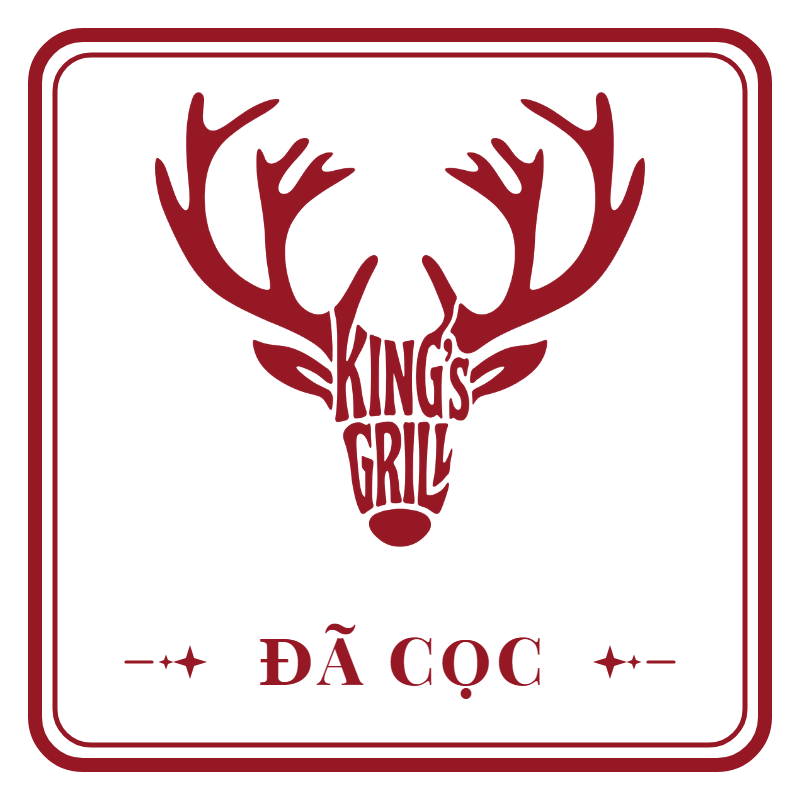
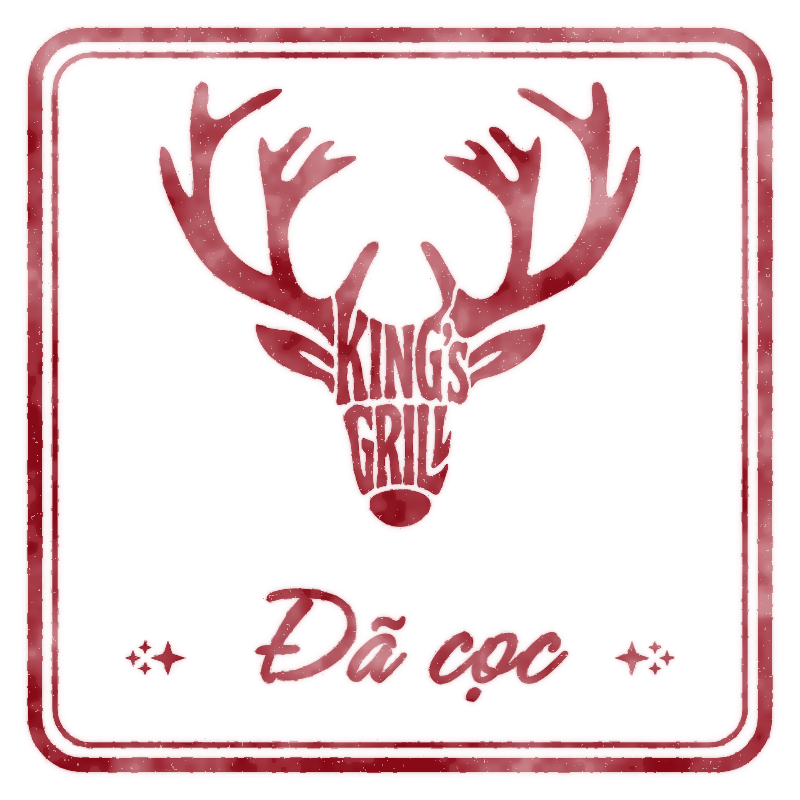
feat(bill-stamps): apply Hurricane calligraphy with ink bleed/fade shader & Google Sans Flex for deposit records

diff --git a/src/components/core/PublicBill.vue b/src/components/core/PublicBill.vue
@@ -426,7 +426,7 @@ onUnmounted(() => { if (timer) clearInterval(timer) })
           <div id="bill-stamp-zone" class="my-4 py-3 border-y border-dashed border-slate-200/80 flex flex-col items-center justify-center pointer-events-none bg-slate-50/40 rounded-2xl">
             <div class="relative w-[170px] sm:w-[200px] flex flex-col items-center justify-center" style="transform: rotate(-3deg); opacity: 0.95;">
               <img id="bill-stamp-img" :src="order.isDeposited ? '/images/stamps/paid.png' : '/images/stamps/pending.png'" class="w-full object-contain filter drop-shadow-sm" style="image-rendering: -webkit-optimize-contrast; image-rendering: crisp-edges;" alt="Stamp" />
-              <div v-if="order.isDeposited" class="mt-2 px-3 py-1 bg-white/95 border border-red-200/90 rounded-full shadow-xs text-center text-[#961825] font-black tracking-widest whitespace-nowrap font-tabular" style="font-family: 'Cal Sans', sans-serif; font-size: 13px;">
+              <div v-if="order.isDeposited" class="mt-2 px-3 py-1 bg-white/95 border border-red-200/90 rounded-full shadow-xs text-center text-[#961825] font-black tracking-widest whitespace-nowrap font-tabular font-deposit-meta" style="font-family: 'Google Sans Flex', 'Be Vietnam Pro', sans-serif; font-size: 13px;">
                 {{ formatDepositTime(order.deposit?.time || order.depositTime) }}
               </div>
             </div>
@@ -503,17 +503,17 @@ onUnmounted(() => { if (timer) clearInterval(timer) })
             </div>
 
             <!-- DEPOSIT INSTALLMENT BREAKDOWN -->
-            <div v-if="order.isDeposited && (order.deposit?.history?.length > 1 || order.depositHistory?.length > 1)" class="bg-emerald-50/70 border border-emerald-200/80 rounded-2xl p-3 space-y-1.5 text-xs text-left shadow-xs mt-2">
+            <div v-if="order.isDeposited && (order.deposit?.history?.length > 1 || order.depositHistory?.length > 1)" class="bg-emerald-50/70 border border-emerald-200/80 rounded-2xl p-3 space-y-1.5 text-xs text-left shadow-xs mt-2 font-deposit-meta" style="font-family: 'Google Sans Flex', 'Be Vietnam Pro', sans-serif;">
               <div class="font-black text-[10px] uppercase tracking-wider text-emerald-800 flex items-center gap-1.5 pb-1 border-b border-emerald-200/60">
                 <i class="fa-solid fa-clock-rotate-left text-[11px] text-emerald-600"></i> Chi tiết các đợt cọc:
               </div>
-              <div v-for="(h, idx) in (order.deposit?.history || order.depositHistory)" :key="idx" class="flex justify-between items-center font-tabular text-[11px]">
+              <div v-for="(h, idx) in (order.deposit?.history || order.depositHistory)" :key="idx" class="flex justify-between items-center font-tabular text-[11px] font-deposit-meta" style="font-family: 'Google Sans Flex', 'Be Vietnam Pro', sans-serif;">
                 <span class="text-slate-600">
                   {{ h.time }} <span class="font-black text-emerald-700">[{{ formatShortVND(h.delta) }}]</span> <span class="font-bold text-slate-400">(Lần {{ idx + 1 }})</span>
                 </span>
                 <span class="font-bold text-slate-700">{{ formatVND(h.amount) }}</span>
               </div>
-              <div class="pt-1.5 border-t border-emerald-200/60 flex justify-between items-center font-black text-[12px] text-emerald-800">
+              <div class="pt-1.5 border-t border-emerald-200/60 flex justify-between items-center font-black text-[12px] text-emerald-800 font-deposit-meta">
                 <span>Tổng cọc: [{{ formatShortVND(order.depositAmount) }}]</span>
                 <span class="font-tabular">{{ formatVND(order.depositAmount) }}</span>
               </div>

diff --git a/src/components/bills/templates/BillTemplateClassic.vue b/src/components/bills/templates/BillTemplateClassic.vue
@@ -93,8 +93,8 @@ const dayOfWeek = computed(() => getDayOfWeek(props.formStore?.customer?.date))
           />
           <div 
             v-if="formStore.deposit.isPaid" 
-            class="mt-2 px-3 py-1 bg-white/95 border border-red-200/90 rounded-full shadow-xs text-center text-[#961825] font-black tracking-widest whitespace-nowrap font-tabular" 
-            style="font-family: 'Cal Sans', sans-serif; font-size: 13px;"
+            class="mt-2 px-3 py-1 bg-white/95 border border-red-200/90 rounded-full shadow-xs text-center text-[#961825] font-black tracking-widest whitespace-nowrap font-tabular font-deposit-meta" 
+            style="font-family: 'Google Sans Flex', 'Be Vietnam Pro', sans-serif; font-size: 13px;"
           >
             {{ formatDepositTime(formStore.deposit.time) }}
           </div>
@@ -200,19 +200,19 @@ const dayOfWeek = computed(() => getDayOfWeek(props.formStore?.customer?.date))
       </div>
 
       <!-- DEPOSIT INSTALLMENT BREAKDOWN -->
-      <div v-if="formStore.deposit.isPaid && formStore.deposit.history && formStore.deposit.history.length > 1" class="bg-emerald-50/70 border border-emerald-200/80 rounded-2xl p-3 space-y-1.5 text-xs text-left shadow-xs">
+      <div v-if="formStore.deposit.isPaid && formStore.deposit.history && formStore.deposit.history.length > 1" class="bg-emerald-50/70 border border-emerald-200/80 rounded-2xl p-3 space-y-1.5 text-xs text-left shadow-xs font-deposit-meta" style="font-family: 'Google Sans Flex', 'Be Vietnam Pro', sans-serif;">
         <div class="font-black text-[10px] uppercase tracking-wider text-emerald-800 flex items-center gap-1.5 pb-1 border-b border-emerald-200/60">
           <i class="fa-solid fa-clock-rotate-left text-[11px] text-emerald-600"></i> Chi tiết các đợt cọc:
         </div>
-        <div v-for="(h, idx) in formStore.deposit.history" :key="idx" class="flex justify-between items-center font-tabular text-[11px]">
+        <div v-for="(h, idx) in formStore.deposit.history" :key="idx" class="flex justify-between items-center font-tabular text-[11px] font-deposit-meta" style="font-family: 'Google Sans Flex', 'Be Vietnam Pro', sans-serif;">
           <span class="text-slate-600">
             {{ h.time }} <span class="font-black text-emerald-700">[{{ formatShortVND(h.delta) }}]</span> <span class="font-bold text-slate-400">(Lần {{ idx + 1 }})</span>
           </span>
-          <span class="font-bold text-slate-700 font-mono">{{ formatVND(h.amount) }}</span>
+          <span class="font-bold text-slate-700 font-deposit-meta">{{ formatVND(h.amount) }}</span>
         </div>
-        <div class="pt-1.5 border-t border-emerald-200/60 flex justify-between items-center font-black text-[12px] text-emerald-800">
+        <div class="pt-1.5 border-t border-emerald-200/60 flex justify-between items-center font-black text-[12px] text-emerald-800 font-deposit-meta">
           <span>Tổng cọc: [{{ formatShortVND(formStore.deposit.amount) }}]</span>
-          <span class="font-tabular font-mono">{{ formatVND(formStore.deposit.amount) }}</span>
+          <span class="font-tabular font-deposit-meta">{{ formatVND(formStore.deposit.amount) }}</span>
         </div>
       </div>
       <div v-if="formStore.calculatedTotals.final - formStore.deposit.amount > 0" class="flex justify-between items-center pt-4 border-t-2 border-slate-200">

diff --git a/src/components/modals/BookingDetailModal.vue b/src/components/modals/BookingDetailModal.vue
@@ -188,12 +188,12 @@ async function handleSyncCalendar() {
             </span>
           </div>
           <!-- Deposit timestamp and installments if any -->
-          <div v-if="ui.selectedBooking.isDeposited && (ui.selectedBooking.deposit?.time || ui.selectedBooking.depositTime)" class="text-[10px] text-emerald-700 dark:text-emerald-300 font-bold flex items-center justify-between pt-1 border-t border-emerald-100 dark:border-emerald-800/40">
+          <div v-if="ui.selectedBooking.isDeposited && (ui.selectedBooking.deposit?.time || ui.selectedBooking.depositTime)" class="text-[10px] text-emerald-700 dark:text-emerald-300 font-bold flex items-center justify-between pt-1 border-t border-emerald-100 dark:border-emerald-800/40 font-deposit-meta" style="font-family: 'Google Sans Flex', 'Be Vietnam Pro', sans-serif;">
             <span class="flex items-center gap-1"><i class="fa-regular fa-clock"></i> Thời gian cọc:</span>
-            <span class="font-mono font-tabular">{{ ui.selectedBooking.deposit?.time || ui.selectedBooking.depositTime }}</span>
+            <span class="font-deposit-meta font-tabular">{{ ui.selectedBooking.deposit?.time || ui.selectedBooking.depositTime }}</span>
           </div>
-          <div v-if="ui.selectedBooking.isDeposited && ((ui.selectedBooking.deposit?.history && ui.selectedBooking.deposit.history.length > 1) || (ui.selectedBooking.depositHistory && ui.selectedBooking.depositHistory.length > 1))" class="pt-1.5 space-y-1">
-            <div v-for="(h, idx) in (ui.selectedBooking.deposit?.history || ui.selectedBooking.depositHistory)" :key="idx" class="flex justify-between items-center text-[10px] font-tabular bg-white/70 dark:bg-slate-900/60 px-2 py-0.5 rounded border border-emerald-100 dark:border-emerald-800/30">
+          <div v-if="ui.selectedBooking.isDeposited && ((ui.selectedBooking.deposit?.history && ui.selectedBooking.deposit.history.length > 1) || (ui.selectedBooking.depositHistory && ui.selectedBooking.depositHistory.length > 1))" class="pt-1.5 space-y-1 font-deposit-meta" style="font-family: 'Google Sans Flex', 'Be Vietnam Pro', sans-serif;">
+            <div v-for="(h, idx) in (ui.selectedBooking.deposit?.history || ui.selectedBooking.depositHistory)" :key="idx" class="flex justify-between items-center text-[10px] font-tabular font-deposit-meta bg-white/70 dark:bg-slate-900/60 px-2 py-0.5 rounded border border-emerald-100 dark:border-emerald-800/30" style="font-family: 'Google Sans Flex', 'Be Vietnam Pro', sans-serif;">
               <span class="text-slate-600 dark:text-slate-300">{{ h.time }} <span class="font-bold text-emerald-600">[{{ formatShortVND(h.delta) }}]</span> (Lần {{ idx + 1 }})</span>
               <span class="font-bold">{{ formatVND(h.amount) }}</span>
             </div>

diff --git a/src/components/forms/DepositManager.vue b/src/components/forms/DepositManager.vue
@@ -275,11 +275,11 @@ function onDrop(e: DragEvent) {
               <div class="text-[10px] text-emerald-700 dark:text-emerald-400 font-medium truncate">{{ formStore.deposit.note || 'Chuyển khoản thành công' }}</div>
             </div>
           </div>
-          <span class="text-[10px] font-mono text-emerald-700 dark:text-emerald-300 font-bold shrink-0 font-tabular bg-emerald-100/70 dark:bg-emerald-900/40 px-2 py-0.5 rounded-md border border-emerald-200/50 dark:border-emerald-800/40">{{ formStore.deposit.time }}</span>
+          <span class="text-[10px] font-deposit-meta text-emerald-700 dark:text-emerald-300 font-bold shrink-0 font-tabular bg-emerald-100/70 dark:bg-emerald-900/40 px-2 py-0.5 rounded-md border border-emerald-200/50 dark:border-emerald-800/40" style="font-family: 'Google Sans Flex', 'Be Vietnam Pro', sans-serif;">{{ formStore.deposit.time }}</span>
         </div>
 
         <!-- Installment History Breakdown (Lần 1, Lần 2, ...) -->
-        <div v-if="formStore.deposit.history && formStore.deposit.history.length > 0" class="pt-2 border-t border-emerald-200/60 dark:border-emerald-800/40 space-y-1.5">
+        <div v-if="formStore.deposit.history && formStore.deposit.history.length > 0" class="pt-2 border-t border-emerald-200/60 dark:border-emerald-800/40 space-y-1.5 font-deposit-meta" style="font-family: 'Google Sans Flex', 'Be Vietnam Pro', sans-serif;">
           <div class="text-[9px] font-black uppercase text-emerald-800 dark:text-emerald-300 flex items-center justify-between">
             <span class="flex items-center gap-1"><i class="fa-solid fa-clock-rotate-left text-[10px]"></i> Lịch sử các đợt cọc:</span>
             <span class="text-[9px] font-bold text-slate-400">({{ formStore.deposit.history.length }} lần)</span>
@@ -288,7 +288,8 @@ function onDrop(e: DragEvent) {
             <div 
               v-for="(h, idx) in formStore.deposit.history" 
               :key="idx" 
-              class="flex items-center justify-between text-[10px] font-tabular bg-white/70 dark:bg-emerald-950/60 px-2.5 py-1 rounded-lg border border-emerald-100 dark:border-emerald-800/40"
+              class="flex items-center justify-between text-[10px] font-tabular font-deposit-meta bg-white/70 dark:bg-emerald-950/60 px-2.5 py-1 rounded-lg border border-emerald-100 dark:border-emerald-800/40"
+              style="font-family: 'Google Sans Flex', 'Be Vietnam Pro', sans-serif;"
             >
               <div class="flex items-center gap-1.5 min-w-0">
                 <span class="text-[9px] font-black bg-emerald-100 dark:bg-emerald-900/60 text-emerald-800 dark:text-emerald-300 px-1 py-0.2 rounded shrink-0">Lần {{ idx + 1 }}</span>

diff --git a/src/components/bills/templates/BillTemplateModern.vue b/src/components/bills/templates/BillTemplateModern.vue
@@ -237,7 +237,7 @@ const verificationQrUrl = useVerificationQr(() => qrLink.value || 'https://kg-bo
             <div class="text-sm font-black mt-0.5" :class="formStore?.deposit?.isPaid ? 'text-emerald-800' : 'text-amber-800'">
               {{ formStore?.deposit?.isPaid ? 'ĐÃ XÁC NHẬN CỌC' : 'YÊU CẦU ĐẶT CỌC' }}
             </div>
-            <div v-if="formStore?.deposit?.isPaid && formStore?.deposit?.time" class="text-[11px] font-bold text-slate-500 font-mono mt-0.5">
+            <div v-if="formStore?.deposit?.isPaid && formStore?.deposit?.time" class="text-[11px] font-bold text-slate-500 font-deposit-meta mt-0.5" style="font-family: 'Google Sans Flex', 'Be Vietnam Pro', sans-serif;">
               Thời gian: {{ formatDepositTime(formStore.deposit.time) }}
             </div>
             <div v-if="!formStore?.deposit?.isPaid" class="text-[11px] font-semibold text-slate-500 mt-0.5">
@@ -249,14 +249,15 @@ const verificationQrUrl = useVerificationQr(() => qrLink.value || 'https://kg-bo
         <!-- Deposit History Breakdown (If multiple installments) -->
         <div 
           v-if="!hidePrice && formStore?.deposit?.isPaid && formStore?.deposit?.history && formStore.deposit.history.length > 1" 
-          class="w-full bg-emerald-50/70 border border-emerald-200/80 rounded-2xl p-3.5 space-y-1.5 text-xs text-left"
+          class="w-full bg-emerald-50/70 border border-emerald-200/80 rounded-2xl p-3.5 space-y-1.5 text-xs text-left font-deposit-meta"
+          style="font-family: 'Google Sans Flex', 'Be Vietnam Pro', sans-serif;"
         >
           <div class="font-black text-[10px] uppercase tracking-wider text-emerald-800 flex items-center gap-1.5 pb-1 border-b border-emerald-200">
             <i class="fa-solid fa-clock-rotate-left text-emerald-600"></i> Lịch sử các đợt cọc:
           </div>
-          <div v-for="(h, idx) in formStore.deposit.history" :key="idx" class="flex justify-between items-center font-mono text-[11px]">
+          <div v-for="(h, idx) in formStore.deposit.history" :key="idx" class="flex justify-between items-center font-deposit-meta text-[11px]" style="font-family: 'Google Sans Flex', 'Be Vietnam Pro', sans-serif;">
             <span class="text-slate-600">
-              {{ h.time }} <span class="font-black text-emerald-700">[{{ formatShortVND(h.delta) }}]</span>
+              {{ h.time }} <span class="font-black text-emerald-700">[{{ formatShortVND(h.delta) }}]</span> <span class="font-bold text-slate-400">(Lần {{ idx + 1 }})</span>
             </span>
             <span class="font-bold text-slate-800">{{ formatVND(h.amount) }}</span>
           </div>

diff --git a/src/components/bills/templates/BillTemplateLuxury.vue b/src/components/bills/templates/BillTemplateLuxury.vue
@@ -216,7 +216,7 @@ const verificationQrUrl = useVerificationQr(() => qrLink.value || 'https://kg-bo
               <div class="text-sm font-black mt-0.5" :class="formStore?.deposit?.isPaid ? 'text-emerald-800' : 'text-amber-800'">
                 {{ formStore?.deposit?.isPaid ? 'ĐÃ ĐẶT CỌC THÀNH CÔNG' : 'CHỜ THANH TOÁN TIỀN CỌC' }}
               </div>
-              <div v-if="formStore?.deposit?.isPaid && formStore?.deposit?.time" class="text-[11px] font-bold text-slate-500 font-mono mt-0.5">
+              <div v-if="formStore?.deposit?.isPaid && formStore?.deposit?.time" class="text-[11px] font-bold text-slate-500 font-deposit-meta mt-0.5" style="font-family: 'Google Sans Flex', 'Be Vietnam Pro', sans-serif;">
                 Ngày nhận: {{ formatDepositTime(formStore.deposit.time) }}
               </div>
             </div>
@@ -225,13 +225,14 @@ const verificationQrUrl = useVerificationQr(() => qrLink.value || 'https://kg-bo
           <!-- Multiple deposit breakdown -->
           <div 
             v-if="!hidePrice && formStore?.deposit?.isPaid && formStore?.deposit?.history && formStore.deposit.history.length > 1" 
-            class="w-full bg-white border border-[#C5A059]/30 rounded-xl p-3 space-y-1 text-xs text-left"
+            class="w-full bg-white border border-[#C5A059]/30 rounded-xl p-3 space-y-1 text-xs text-left font-deposit-meta"
+            style="font-family: 'Google Sans Flex', 'Be Vietnam Pro', sans-serif;"
           >
             <div class="font-black text-[10px] uppercase text-[#9A7B38] pb-1 border-b border-slate-100 flex items-center gap-1.5">
               <i class="fa-solid fa-list-check"></i> Các đợt ghi nhận cọc:
             </div>
-            <div v-for="(h, idx) in formStore.deposit.history" :key="idx" class="flex justify-between items-center font-mono text-[11px]">
-              <span class="text-slate-600">{{ h.time }} <strong class="text-emerald-700">[{{ formatShortVND(h.delta) }}]</strong></span>
+            <div v-for="(h, idx) in formStore.deposit.history" :key="idx" class="flex justify-between items-center font-deposit-meta text-[11px]" style="font-family: 'Google Sans Flex', 'Be Vietnam Pro', sans-serif;">
+              <span class="text-slate-600">{{ h.time }} <strong class="text-emerald-700">[{{ formatShortVND(h.delta) }}]</strong> <span class="font-bold text-slate-400">(Lần {{ idx + 1 }})</span></span>
               <span class="font-bold text-slate-800">{{ formatVND(h.amount) }}</span>
             </div>
           </div>

diff --git a/src/components/bills/templates/BillTemplateTicket.vue b/src/components/bills/templates/BillTemplateTicket.vue
@@ -205,6 +205,16 @@ const verificationQrUrl = useVerificationQr(() => qrLink.value || 'https://kg-bo
               <span class="font-bold text-[10px] uppercase">TIỀN CỌC:</span>
               <span class="font-mono font-black text-sm">{{ formatVND(formStore?.deposit?.amount || 0) }} ({{ formStore?.deposit?.isPaid ? 'ĐÃ CỌC' : 'CHỜ CỌC' }})</span>
             </div>
+            <div v-if="formStore?.deposit?.isPaid && formStore?.deposit?.time" class="flex justify-between items-center text-[10px] text-slate-600 font-deposit-meta" style="font-family: 'Google Sans Flex', 'Be Vietnam Pro', sans-serif;">
+              <span class="font-semibold">Thời gian nhận cọc:</span>
+              <span class="font-bold tabular-nums">{{ formatDepositTime(formStore.deposit.time) }}</span>
+            </div>
+            <div v-if="formStore?.deposit?.history?.length > 1" class="pt-1 border-t border-blue-200/70 space-y-0.5 text-[10px] text-slate-700 font-deposit-meta" style="font-family: 'Google Sans Flex', 'Be Vietnam Pro', sans-serif;">
+              <div v-for="(h, idx) in formStore.deposit.history" :key="idx" class="flex justify-between items-center">
+                <span class="font-medium">{{ h.note || `Cọc lần ${Number(idx) + 1}` }} <span v-if="h.time" class="text-[9px] text-slate-500">({{ formatDepositTime(h.time) }})</span>:</span>
+                <span class="font-bold text-emerald-700 tabular-nums">+{{ formatVND(h.amount) }}</span>
+              </div>
+            </div>
             <div class="pt-1.5 border-t border-blue-200 flex justify-between items-center text-rose-600">
               <span class="font-black text-[10px] uppercase">CÒN LẠI:</span>
               <span class="font-mono font-black text-base">{{ formatVND((formStore?.calculatedTotals?.final || 0) - (formStore?.deposit?.amount || 0)) }}</span>

diff --git a/index.html b/index.html
@@ -12,7 +12,7 @@
   <link rel="preconnect" href="https://fonts.gstatic.com" crossorigin>
 
   <!-- Fonts -->
-  <link href="https://fonts.googleapis.com/css2?family=Inter:wght@300;400;500;600;700;800;900&family=Outfit:wght@400;500;600;700;800;900&family=Be+Vietnam+Pro:ital,wght@0,300;0,400;0,500;0,600;0,700;0,800;0,900;1,400;1,500;1,700&family=Cal+Sans&display=swap" rel="stylesheet" crossorigin="anonymous">
+  <link href="https://fonts.googleapis.com/css2?family=Inter:wght@300;400;500;600;700;800;900&family=Outfit:wght@400;500;600;700;800;900&family=Be+Vietnam+Pro:ital,wght@0,300;0,400;0,500;0,600;0,700;0,800;0,900;1,400;1,500;1,700&family=Cal+Sans&family=Google+Sans+Flex:opsz,wght@6..144,100..1000&family=Hurricane&display=swap" rel="stylesheet" crossorigin="anonymous">
   <link rel="stylesheet" href="https://cdnjs.cloudflare.com/ajax/libs/font-awesome/6.4.0/css/all.min.css" crossorigin="anonymous">
 
   <!-- Favicon & Icons -->

diff --git a/src/styles/main.css b/src/styles/main.css
@@ -1,7 +1,12 @@
-@import url('https://fonts.googleapis.com/css2?family=Cal+Sans&display=swap');
+@import url('https://fonts.googleapis.com/css2?family=Cal+Sans&family=Google+Sans+Flex:opsz,wght@6..144,100..1000&family=Hurricane&display=swap');
 @tailwind base;
 @tailwind components;
 @tailwind utilities;
+
+.font-deposit-meta {
+    font-family: 'Google Sans Flex', 'Be Vietnam Pro', sans-serif !important;
+    font-variant-numeric: tabular-nums;
+}
 
 html, body, #app {
     height: 100%;
